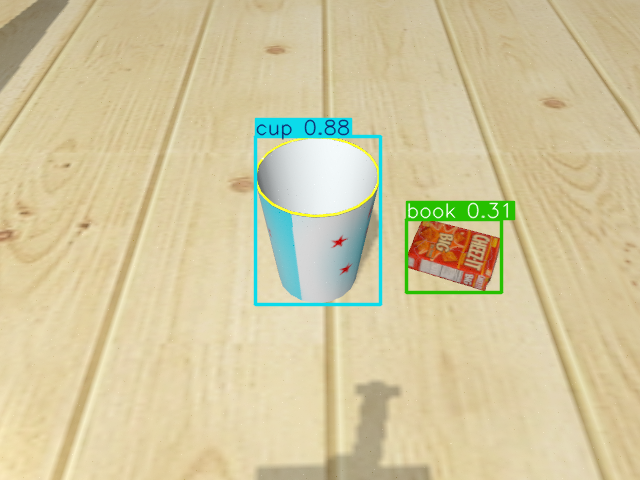
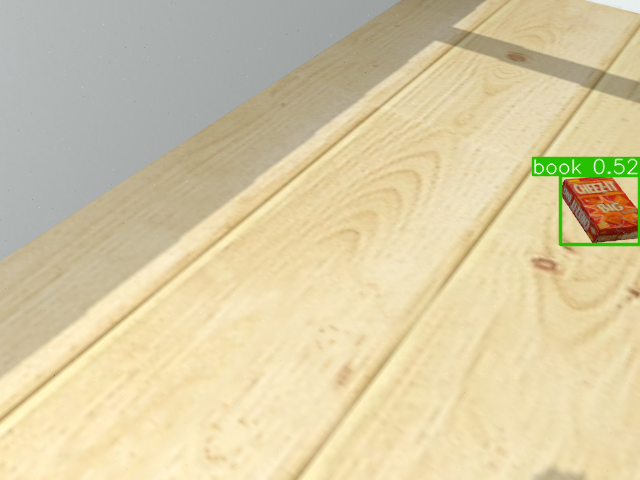
Proy final

diff --git a/ros2_ws/src/final_project/final_project/ruta_barrido.py b/ros2_ws/src/final_project/final_project/ruta_barrido.py
@@ -12,8 +12,12 @@ import time
 
 NAME = "Juan Mancera Lopez"
 
-Ruta = [[0.0,3.0], [0.0,4.0], [0.0,5.0], [-3.0,5.0]]
-Punt_Control = [[0,3], [-3.5,3], [2.5, -5], [-2.5, -5], [3, -10]]
+Ruta = [[-1.5,-8.5],	[-4.0,-8.5],	[-4.0,-9.5], 	    [-1.5,-9.5],	[-1.5,-10.5],	[-4.0,-10.5],
+        [-2.0,-3.7],	[-4.0,-3.7],    [-4.0,-2.6], 	    [-2.0,-2.6],
+        [-2.6,0.5],	    [-2.6,3.5],	    [-3.0,3.5], 	    [-3.0,0.5],	    [-3.6,0.5],	[-3.6,3.5],
+        [0.4,2.5],	    [0.4,3.7],	    [-0.4,3.7], 	    [-0.4,2.5],
+        [3.0,-2.5],	    [3.0,-7.0],	   	[3.8,-7.0], 	    [3.8,-2.5]]
+Punt_Control = [[-1.5,-8.5], [-2,-3.7], [-2.6,0.5], [0.4,2.5], [3.0,-2.5]]
 
 class RutaBarridoNode(Node):
 
@@ -76,17 +80,17 @@ class RutaBarridoNode(Node):
 
         print("Iniciando seguimiento de ruta...") # 0-4
         if (Punt_Control.index(pnt_cerc) == 0):
-            self.num_destino = 0
-        elif (Punt_Control.index(pnt_cerc) == 1):
-            self.num_destino = 3
-        elif (Punt_Control.index(pnt_cerc) == 2):
             self.num_destino = 5
+        elif (Punt_Control.index(pnt_cerc) == 1):
+            self.num_destino = 6
+        elif (Punt_Control.index(pnt_cerc) == 2):
+            self.num_destino = 10
         elif (Punt_Control.index(pnt_cerc) == 3):
-            self.num_destino = 7
+            self.num_destino = 16
         elif (Punt_Control.index(pnt_cerc) == 4):
-            self.num_destino = 9
+            self.num_destino = 20
         print(f"El punto a empezar debe ser: {self.num_destino}") 
-        #self.timer = self.create_timer(1.0, self.seguimiento_metas)
+        self.timer = self.create_timer(1.0, self.seguimiento_metas)
 
     def callback_llegada(self, msg):
         # Cuando path follower avisa que llegó, enviar al siguiente punto de la ruta

diff --git a/ros2_ws/src/final_project/final_project/object_recognition.py b/ros2_ws/src/final_project/final_project/object_recognition.py
@@ -147,7 +147,7 @@ class ObjectDetectorNode(Node):
         # Nombres desde el dataset COCO
         self.target_object = ["cup", "book", "bottle"]  # cup = Cesto / book = caja de cereal / bottle = lata de refresco (no siempre lo detecta)
         self.cumplidos = [0,0,0]
-        self.confidence_threshold = 0.2 # Mínimo 20% de seguridad
+        self.confidence_threshold = 0.3 # Mínimo 20% de seguridad
 
         # Parámetros para guardar la información
         self.output_folder = 'salida_ubicaciones'

diff --git a/ros2_ws/src/navigation/path_planner/path_planner/cost_map.py b/ros2_ws/src/navigation/path_planner/path_planner/cost_map.py
@@ -83,7 +83,7 @@ class CostMapNode(Node):
         response = future.result()
         self.map_static = response.map
         print("Got static map.")
-        self.declare_parameter('cost_radius', 0.05)
+        self.declare_parameter('cost_radius', 0.5)
         self.srv_cost_map  = self.create_service(GetMap, '/get_cost_map', self.callback_cost_map)
         self.pub_cost_map = self.create_publisher(OccupancyGrid, '/cost_map', 10)
         self.timer = self.create_timer(1.0, self.callback_timer)
